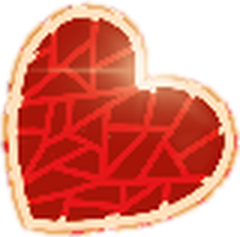
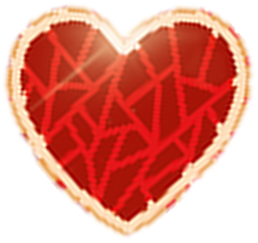
Iva's 26 Nov edits: homepage, Vision, Books (Amazon links), Articles line, Treasures; gold crack fixed on desktop browsers; upright Thérèse heart; flame from the key for St Philip Neri; glowing cross
Claude-Session: https://claude.ai/code/session_01NqbUP13jKa1HwKCDJ92QtK

diff --git a/src/styles/global.css b/src/styles/global.css
@@ -168,13 +168,16 @@
   @keyframes glow { 0%,100% { opacity: .55; } 50% { opacity: 1; } }
   @keyframes drift { from { transform: translateY(0); } to { transform: translateY(-14px); } }
   .anim-flicker { animation: flicker 1.6s ease-in-out infinite; transform-origin: 50% 90%; transform-box: fill-box; }
+  img.anim-flicker, img.anim-beat { transform-box: border-box; }
   .anim-beat { animation: beat 2.4s ease-in-out infinite; transform-origin: center; transform-box: fill-box; }
   .anim-twinkle { animation: twinkle 3s ease-in-out infinite; }
   .anim-glow { animation: glow 4s ease-in-out infinite; }
   .anim-drift { animation: drift 5s ease-in-out infinite alternate; }
+  @keyframes radiate { 0%,100% { filter: drop-shadow(0 0 2px rgb(233 199 133 / .35)); transform: scale(1); } 50% { filter: drop-shadow(0 0 12px rgb(233 199 133 / .95)); transform: scale(1.05); } }
+  .anim-radiate { animation: radiate 3.2s ease-in-out infinite; transform-origin: center; }
   @media (prefers-reduced-motion: reduce) {
     [data-door-zoom] { transform: none !important; }
-    .anim-flicker, .anim-beat, .anim-twinkle, .anim-glow, .anim-drift { animation: none; }
+    .anim-flicker, .anim-beat, .anim-twinkle, .anim-glow, .anim-drift, .anim-radiate { animation: none; }
   }
 
   /* Visible only while site.showPlaceholders is true */

diff --git a/src/content/books/veronicas-bookstore.md b/src/content/books/veronicas-bookstore.md
@@ -6,7 +6,8 @@ order: 1
 cover: ../../assets/books/veronicas-bookstore-cover.jpg
 coverAlt: "Cover of Veronica's Bookstore: a boy in a scarf carrying a lantern past a red bookshop front on a starry night."
 blurb: "Matthew is 8 years old when he receives a mysterious gift. As the mystery unveils, he introduces his family and a few close friends to the Secret Chambers that are hidden in the library Archives. A children's fiction series for 8 to 12 year olds, and for adults “who are old enough to read the fairytales again”, as C. S. Lewis would say, it will ignite the imagination with mystery, suspense and wisdom. A book about friendship, a grandmother's influence and a key that unlocks the door to forgotten dreams."
-verified: false
+verified: true
+buyUrl: "https://tinyurl.com/VeronicasBookstoreSeries2"
 ---
 Source: 2021 launch materials (Amazon Kindle; book signing at St Teresa's, Clarendon Street, December 2021).
 TODO-CONTENT: confirm age range (the 2021 CV mentions a book for 8 to 12 year olds), publisher, a fuller description, and a current link to buy.

diff --git a/src/content/books/the-year-of-celebrations.md b/src/content/books/the-year-of-celebrations.md
@@ -3,7 +3,8 @@ title: "The Year of Celebrations"
 kind: children
 featured: true
 order: 2
-verified: false
+verified: true
+buyUrl: "https://tinyurl.com/VeronicasBookstoreSeries2"
 cover: ../../assets/books/the-year-of-celebrations-cover.jpg
 coverAlt: "Cover of The Year of Celebrations, sequel to Veronica's Bookstore: a boy opening a carved red door onto a starry night."
 blurb: "The sequel to Veronica's Bookstore follows the exciting story of now ten-year-old Matthew Alden. Wise, creative and mysterious, it uncovers new adventures for Matthew, his family and friends, and will spark imagination and help build emotional resilience in readers, young and old. As Matthew discovers more about the Secret Chambers and travels to Oxford for the first time, children will be inspired to embark on their own journey of appreciating the beauty of life and living life to the full."
